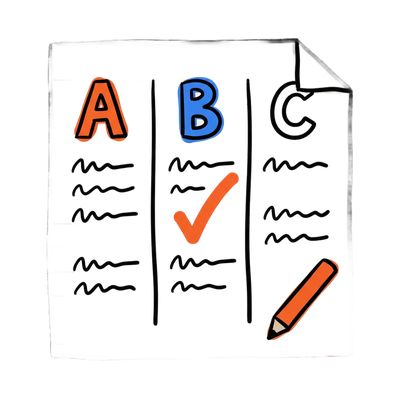
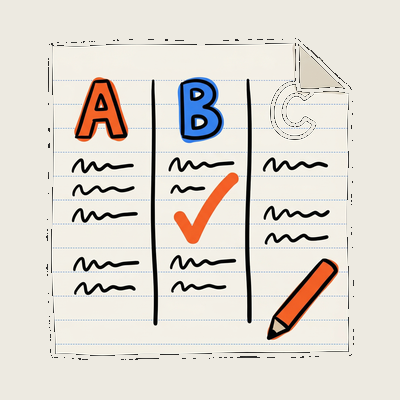
Website: Methode-Boxen Mobile, Arbeitsblatt-Konturen, Walkthrough-Scroll
- Mobile (<640px): SVG-Diagramm hidden, 3 HTML-Boxen (Prüfen/Urteilen/Belegen) statt dessen
- Arbeitsblatt-Bild: Flood-Fill statt KI-Entfernung, schwarze Konturen erhalten
- Walkthrough: Sofort-Scroll zum Walkthrough bei Hash-Navigation
- Abschlusssatz "Dieselbe Methode..." als eigenes Element unter Diagramm

diff --git a/08-KIalog Website/index.html b/08-KIalog Website/index.html
@@ -107,6 +107,7 @@ section{padding:clamp(48px,6vw,80px) clamp(24px,4vw,40px);position:relative}
 .methode-box h3{color:var(--farbe-blau);font-size:1.3rem;font-weight:700;margin-bottom:8px}
 .methode-box p{font-size:.95rem;font-weight:400;opacity:.75;line-height:1.6}
 .methode-closing{text-align:center;margin-top:1.5rem;color:var(--farbe-text-muted)}
+.methode-mobile-only{display:none}
 .praxis-anchor{font-weight:600;max-width:var(--content-w);margin-bottom:2rem;line-height:1.6}
 .tabs-nav{display:flex;gap:4px;border-bottom:2px solid var(--farbe-beige-dunkel);margin-bottom:32px}
 .tab-btn{padding:12px 20px;font-weight:600;font-family:inherit;font-size:15px;color:var(--farbe-text-muted);background:transparent;border:none;border-bottom:3px solid transparent;margin-bottom:-2px;cursor:pointer;transition:var(--transition);min-height:44px;letter-spacing:-.3px}
@@ -183,7 +184,7 @@ details.faq-item summary:hover{color:var(--farbe-blau)}
 @media(min-width:768px){.about-layout{grid-template-columns:260px 1fr;gap:3rem}}
 @media(max-width:960px){.nav-links{display:none}.nav-hamburger{display:flex;z-index:10001;position:relative}.nav.menu-open{backdrop-filter:none;-webkit-backdrop-filter:none;background-color:var(--farbe-beige)}.nav-links.open{display:flex;flex-direction:column;position:fixed;top:0;left:0;right:0;bottom:0;background:var(--farbe-beige);padding:120px 30px 40px;gap:0;z-index:10000;overflow-y:auto}.nav-links.open li{display:block}.nav-links.open a{font-size:22px;font-weight:600;padding:20px 0;display:block;border-top:1px solid rgba(56,129,241,.2)}}
 @media(max-width:900px){.hero-grid{grid-template-columns:1fr;gap:2rem}.hero{min-height:auto;padding-top:clamp(2rem,5vw,4rem)}.hero-visual{order:1}.hero-text{text-align:center;max-width:none}.hero-schmerz,.hero-subline{margin-left:auto;margin-right:auto}.hero-buttons{justify-content:center}.hero-profil{justify-content:center}.format-grid{grid-template-columns:1fr}.footer-inner{grid-template-columns:1fr}}
-@media(max-width:640px){h1{letter-spacing:-1px}h2{letter-spacing:-.8px}h3{letter-spacing:-.3px}.hero h1{font-size:clamp(2.2rem,8vw,3.5rem)}.hero-buttons{flex-direction:column;align-items:stretch}.hero-buttons .btn-primary,.hero-buttons .btn-outline{width:100%;min-width:0}.methode-grid{grid-template-columns:1fr}.methode-box p{font-size:1rem}.underline-deko{bottom:-6px}.realitaet-stats{flex-direction:column;gap:1.5rem}.tabs-nav{flex-direction:column;gap:8px;border-bottom:none}.tab-btn{width:100%;text-align:left;padding:12px 16px;border:2px solid var(--farbe-beige-dunkel);border-radius:var(--border-radius-klein);margin-bottom:0}.tab-btn[aria-selected="true"]{border-color:var(--farbe-blau);background:var(--farbe-blau-pastell)}.tab-panel.active{grid-template-columns:1fr}.tab-panel img{max-width:120px;order:2;margin:0 auto}.footer-illustration{display:none}}
+@media(max-width:640px){h1{letter-spacing:-1px}h2{letter-spacing:-.8px}h3{letter-spacing:-.3px}.hero h1{font-size:clamp(2.2rem,8vw,3.5rem)}.hero-buttons{flex-direction:column;align-items:stretch}.hero-buttons .btn-primary,.hero-buttons .btn-outline{width:100%;min-width:0}.methode-grid{grid-template-columns:1fr}.methode-box p{font-size:1rem}.methode-diagramm{display:none}.methode-mobile-only{display:grid}.underline-deko{bottom:-6px}.realitaet-stats{flex-direction:column;gap:1.5rem}.tabs-nav{flex-direction:column;gap:8px;border-bottom:none}.tab-btn{width:100%;text-align:left;padding:12px 16px;border:2px solid var(--farbe-beige-dunkel);border-radius:var(--border-radius-klein);margin-bottom:0}.tab-btn[aria-selected="true"]{border-color:var(--farbe-blau);background:var(--farbe-blau-pastell)}.tab-panel.active{grid-template-columns:1fr}.tab-panel img{max-width:120px;order:2;margin:0 auto}.footer-illustration{display:none}}
 @media(max-width:767px){.about-layout{justify-items:center}}
 </style>
 </head>
@@ -245,6 +246,12 @@ details.faq-item summary:hover{color:var(--farbe-blau)}
     <p class="reveal content-w" style="margin-top:1rem">KI skaliert, differenziert, entwirft. Du weisst, was darin steht — und merkst sofort, wenn etwas nicht stimmt. Das ist keine neue Fähigkeit. Das ist deine Fachkompetenz, angewendet auf KI-Output.</p>
     <p class="reveal content-w" style="margin-top:1rem">Genau das nennt die Forschung evaluative judgement (Tai et al., 2018). Und genau das fordern sechs Rahmenwerke heute schon.</p>
     <div class="methode-diagramm reveal"><img src="asset/illust-methode.svg" alt="Diagramm: KIalog-Methode in drei Schritten — Prüfen, Urteilen, Belegen" loading="lazy"></div>
+    <div class="methode-grid methode-mobile-only reveal">
+      <div class="methode-box"><div class="schritt-label">Schritt 1</div><h3>Prüfen</h3><p>Stimmt das fachlich? Fehlt etwas? Wo hat die KI vereinfacht, was nicht vereinfacht werden darf?</p></div>
+      <div class="methode-box"><div class="schritt-label">Schritt 2</div><h3>Urteilen</h3><p>Übernehmen, anpassen oder verwerfen. Nicht die KI entscheidet über Qualität. Du entscheidest.</p></div>
+      <div class="methode-box"><div class="schritt-label">Schritt 3</div><h3>Belegen</h3><p>Warum hast du was geändert? Dein Denkprozess wird sichtbar — für dich, für deine Lernenden, für dein Team.</p></div>
+    </div>
+    <p class="methode-closing reveal">Dieselbe Methode. Egal ob Arbeitsblatt, Prüfung oder Feedback.</p>
   </div>
 </section>
 <section id="praxis">

diff --git a/08-KIalog Website/beispiel/prototyp-praxis.html b/08-KIalog Website/beispiel/prototyp-praxis.html
@@ -953,6 +953,9 @@ document.addEventListener('DOMContentLoaded', () => {
   const hash = location.hash.replace('#wt-', '');
   if (['berufsschule', 'hochschule', 'gymnasium'].includes(hash)) {
     switchTab(hash);
+    setTimeout(() => {
+      document.getElementById('walkthroughs').scrollIntoView({ behavior: 'instant', block: 'start' });
+    }, 200);
   }
   observeSteps();
 });
